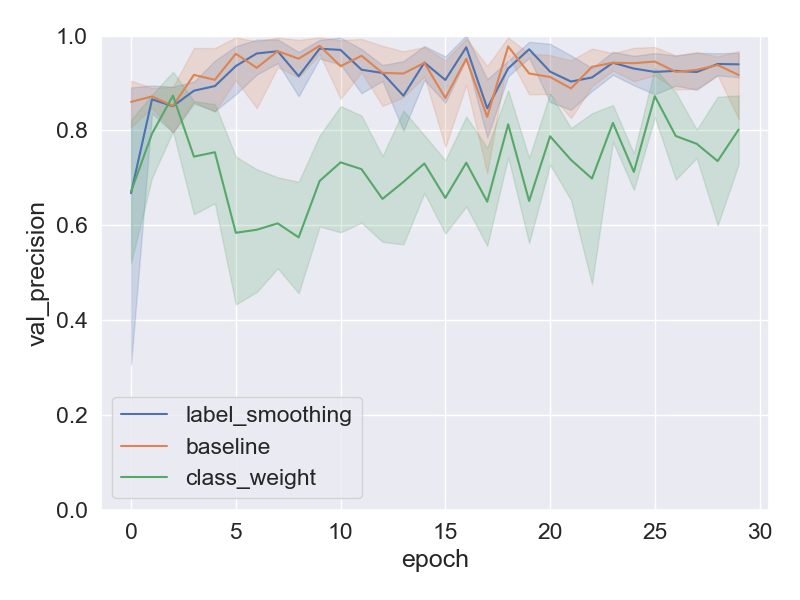
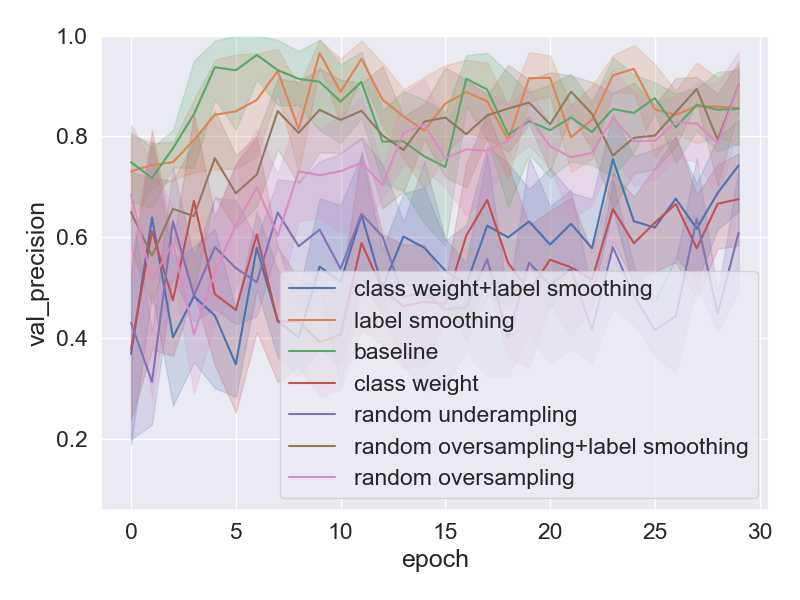
Add the over/undersampling and restructure experiment codes
- datasets/rb.py: Add three methods for random over/under sampling
 - rb.py: Unifying all experiments into one script ``rb.py`` by adding program arguments

diff --git a/gw_universe/datasets/rb.py b/gw_universe/datasets/rb.py
@@ -39,10 +39,23 @@ def prepare_rb_dataset(dir_data):
 
 
 class InMemoryDataLoader(tf.keras.utils.Sequence):
-    def __init__(self, images, labels=None, batch_size=64, shuffle=False, *args, **kwargs):
+    def __init__(self,
+                 images,
+                 labels=None,
+                 is_train=True,
+                 resampling=None,
+                 batch_size=64,
+                 shuffle=False,
+                 *args,
+                 **kwargs):
         super(InMemoryDataLoader, self).__init__(*args, **kwargs)
         self.images = images
         self.labels = labels
+        self.is_train = is_train
+        if resampling not in [None, 'random_undersampling', 'random_oversampling', 'smote']:
+            ValueError(f"resmpling must be 'random_undersamplig', 'random_oversampling', 'smote', or None, \
+                got: {resampling}")
+        self.resampling = resampling
         self.batch_size = batch_size
         self.shuffle = shuffle
 
@@ -66,5 +79,45 @@ class InMemoryDataLoader(tf.keras.utils.Sequence):
 
     def on_epoch_end(self):
         self.indices = np.arange(len(self.images))
-        if self.shuffle:
-            np.random.shuffle(self.indices)
+
+        if self.is_train:
+            if self.resampling is not None:
+                self.indices = self.resampling_factory()
+
+            if self.shuffle:
+                np.random.shuffle(self.indices)
+
+    def resampling_factory(self):
+        if self.resampling == 'random_oversampling':
+            return self.random_oversampling(self.labels)
+
+        elif self.resampling == 'random_undersampling':
+            return self.random_undersampling(self.labels)
+
+    @staticmethod
+    def random_oversampling(y):
+        indices = np.arange(len(y))
+        counts = np.bincount(y)
+        target_nums = max(counts) - counts
+
+        resampled_indices = indices.tolist()
+        for label, target_num in enumerate(target_nums):
+            pool_indices = np.where(y == label)
+            resampled_indices += np.random.choice(indices[pool_indices], target_num).tolist()
+
+        return np.array(resampled_indices)
+
+    @staticmethod
+    def random_undersampling(y):
+        indices = np.arange(len(y))
+        counts = np.bincount(y)
+        argmin = np.argmin(counts)
+        target_num = min(counts)
+
+        resampled_indices = []
+        for label in range(len(counts)):
+            replace = label == argmin
+            pool_indices = np.where(y != label)
+            resampled_indices += np.random.choice(indices[pool_indices], target_num, replace=replace).tolist()
+
+        return np.array(resampled_indices)

diff --git a/experiments/rb.py b/experiments/rb.py
@@ -13,7 +13,10 @@ from sklearn.utils import class_weight
 def get_arguments():
     parser = argparse.ArgumentParser()
     parser.add_argument('--dir_data', type=str, default='./data/20220209_LOAO_check')
-    parser.add_argument('--exp_name', type=str, default='class_weight')
+    parser.add_argument('--exp_name', type=str, default='baseline')
+    parser.add_argument('--resampling', type=str, default=None)
+    parser.add_argument('--class_weight', type=bool, default=False)
+    parser.add_argument('--label_smoothing', type=float, default=0.0)
     parser.add_argument('--seed', type=str, default=0)
     parser.add_argument('--num_folds', type=int, default=5)
     parser.add_argument('--epochs', type=int, default=30)
@@ -40,14 +43,16 @@ def main():
 
         # Comput class weights
         # ``balanced`` compute the following: n_samples / (n_classes * np.bincount(y))
-        weights = class_weight.compute_class_weight('balanced', classes=np.unique(y_train), y=y_train)
-        weights = {k: v for k, v in enumerate(weights)}
+        weights = None
+        if args.class_weight:
+            weights = class_weight.compute_class_weight('balanced', classes=np.unique(y_train), y=y_train)
+            weights = {k: v for k, v in enumerate(weights)}
 
-        train_loader = InMemoryDataLoader(X_train, y_train, shuffle=True)
-        valid_loader = InMemoryDataLoader(X_valid, y_valid, shuffle=True)
+        train_loader = InMemoryDataLoader(X_train, y_train, resampling=args.resampling, shuffle=True)
+        valid_loader = InMemoryDataLoader(X_valid, y_valid, is_train=False, shuffle=False)
 
         optimizer = tf.keras.optimizers.Adam()
-        loss = tf.keras.losses.BinaryCrossentropy()
+        loss = tf.keras.losses.BinaryCrossentropy(label_smoothing=args.label_smoothing)
         metrics = [
             tf.keras.metrics.BinaryAccuracy(),
             tf.keras.metrics.Recall(),
@@ -69,6 +74,7 @@ def main():
             verbose=0
         )
 
+        model.save(f'{log_dir}/fold{i}.h5')
         tf.keras.backend.clear_session()
 
 

diff --git a/gw_universe/utils/plotting.py b/gw_universe/utils/plotting.py
@@ -19,6 +19,8 @@ def get_datasets(logdir):
         for file in files:
             if 'csv' in file:
                 _, exp_name = os.path.split(root)
+                exp_name = exp_name.replace('-', '+')
+                exp_name = exp_name.replace('_', ' ')
                 fold = file.split('.')[0]
 
                 exp_data = pd.read_csv(os.path.join(root, file))

diff --git a/README.md b/README.md
@@ -10,13 +10,18 @@ pip install -e .
 ## Real vs. Bogus classification
 
 We conducted a set of experiments with different strategies to resolve the class imbalance in the Real vs. Bogus dataset
-. You can find all python scripts for the experiments in the `experiments` folder.
+. All experiments can be reproduced by running `run_all_experiments.sh`:
+~~~
+bash run_all_experiments.sh
+~~~
  
- Name                   | Description 
-:----------------------:|:----------------------------------------------------------:
- `baseline.py`          | No strategy is applied
- `label_smoothing.py`   | Label smoothing with alpha=0.2
- `class_weight.py`      | More penalties for incorrect samples in the minority class
+ Name                    | Description 
+:-----------------------:|:----------------------------------------------------------------------:
+ `baseline`              | No strategy is applied
+ `label smoothing`       | Label smoothing with alpha=0.2
+ `class weight`          | More penalties for incorrect samples in the minority class
+ `random oversampling`   | For each epoch, minor samples are oversampled to # of major samples
+ `random undersampling`  | For each epoch, major samples are undersampled to # of minor samples
 
 <br>
 
